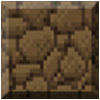
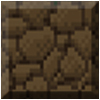
Make clickable tiles a lighter color

diff --git a/public/js/MainScene.js b/public/js/MainScene.js
@@ -136,28 +136,28 @@ export default class MainScene extends Phaser.Scene {
     let surroundingTileArray = [];
     const { xIndex, yIndex } = tileData;
     if (xIndex > 0) {
-      surroundingTileArray.push([[xIndex - 1], [yIndex]]);
+      surroundingTileArray.push([xIndex - 1, yIndex]);
     }
     if (xIndex < 11) {
-      surroundingTileArray.push([[xIndex + 1], [yIndex]]);
+      surroundingTileArray.push([xIndex + 1, yIndex]);
     }
     if (yIndex > 0) {
-      surroundingTileArray.push([[xIndex], [yIndex - 1]]);
+      surroundingTileArray.push([xIndex, yIndex - 1]);
     }
     if (yIndex < 7) {
-      surroundingTileArray.push([[xIndex], [yIndex + 1]]);
+      surroundingTileArray.push([xIndex, yIndex + 1]);
     }
     if (xIndex > 0 && yIndex > 0) {
-      surroundingTileArray.push([[xIndex - 1], [yIndex - 1]]);
+      surroundingTileArray.push([xIndex - 1, yIndex - 1]);
     }
     if (xIndex > 0 && yIndex < 7) {
-      surroundingTileArray.push([[xIndex - 1], [yIndex + 1]]);
+      surroundingTileArray.push([xIndex - 1, yIndex + 1]);
     }
     if (xIndex < 11 && yIndex > 0) {
-      surroundingTileArray.push([[xIndex + 1], [yIndex - 1]]);
+      surroundingTileArray.push([xIndex + 1, yIndex - 1]);
     }
     if (xIndex < 11 && yIndex < 7) {
-      surroundingTileArray.push([[xIndex + 1], [yIndex + 1]]);
+      surroundingTileArray.push([xIndex + 1, yIndex + 1]);
     }
     return surroundingTileArray;
   };
@@ -166,6 +166,10 @@ export default class MainScene extends Phaser.Scene {
     this.load.image('bomb', './assets/Puzzle_Bomb.jpg');
     this.load.image('emptyTile', './assets/Puzzle_Uncovered.jpg');
     this.load.image('hiddenTile', './assets/Puzzle_Hidden.jpg');
+    this.load.image(
+      'hiddenTileClickable',
+      './assets/Puzzle_Hidden_clickable.jpg',
+    );
     this.load.image('startTile', './assets/Puzzle_Start.jpg');
     this.load.image('endTile', './assets/Puzzle_End.jpg');
     this.load.image('fail', './assets/fail_game.jpg');
@@ -193,11 +197,11 @@ export default class MainScene extends Phaser.Scene {
     });
 
     //set heart image
-    let heartImage = this.add.sprite(45, 50, 'heart');
+    let heartImage = this.add.sprite(45, 60, 'heart');
     heartImage.displayWidth = 50;
     heartImage.displayHeight = 50;
 
-    let livesText = this.add.text(39, 40, this.lives, {
+    let livesText = this.add.text(39, 50, this.lives, {
       fontSize: '20px',
       fontStyle: 'bold',
     });
@@ -217,6 +221,7 @@ export default class MainScene extends Phaser.Scene {
         .on(Phaser.Input.Events.GAMEOBJECT_POINTER_DOWN, function (event) {
           console.log('bomb clicked');
           tiles.forEach((tile) => tile.destroy());
+          tiles = [];
           this.scene.lives = 3;
           this.scene.currentLevel = 1;
           startGame();
@@ -235,10 +240,31 @@ export default class MainScene extends Phaser.Scene {
           console.log('end clicked');
           this.scene.upCurrentLevelByOne();
           tiles.forEach((tile) => tile.destroy());
+          tiles = [];
           this.scene.lives += 1;
           startGame();
         });
       this.setIsGamePlaying(false);
+    };
+
+    //function to set surrounding tiles to clickable
+    const setSurroundingTilesToClickable = (tileData) => {
+      const surroundTileCoordinates = this.surroundingTilesCoordinatesArray(
+        tileData,
+      );
+      tiles.forEach((tile) => {
+        const xIndex = tile.getXIndex();
+        const yIndex = tile.getYIndex();
+        //tests if a tile x,y is in the surroungTileArrayCooirdinats
+        const isTileInCoordinatesArray = surroundTileCoordinates.some(
+          (coodinates) => {
+            return coodinates[0] === xIndex && coodinates[1] === yIndex;
+          },
+        );
+        if (isTileInCoordinatesArray) {
+          tile.setTileClickable();
+        }
+      });
     };
 
     let tileObjectData = {
@@ -250,20 +276,26 @@ export default class MainScene extends Phaser.Scene {
       setTileClickable: this.setTileClickable,
       getLives: this.getLives,
       setLives,
+      setSurroundingTilesToClickable,
     };
 
     // initialize the gameData and populate the gameboard with tiles
     const startGame = () => {
       console.log(`Current Level: ${this.currentLevel}`);
       this.initilizeGameData();
-      //set current level text
 
-      level.setText(`The Path Finder      Level: ${this.currentLevel}`);
+      //set current level text
+      level.setText(
+        `The Path Finder               Level: ${this.currentLevel}`,
+      );
       level.displayOriginX = level.displayWidth;
 
       //set current lives text
       livesText.setText(this.lives);
+
       this.setIsGamePlaying(true);
+
+      // add Tiles based on gameData
       for (let Xindex = 0; Xindex < 12; Xindex++) {
         const x = startingX + tileSize * Xindex;
         for (let Yindex = 0; Yindex < 8; Yindex++) {
@@ -279,6 +311,9 @@ export default class MainScene extends Phaser.Scene {
           );
         }
       }
+
+      //set tiles surrounding start tile to clickable
+      setSurroundingTilesToClickable(this.gameData[0][0]);
     };
 
     startGame();

diff --git a/public/js/Tile.js b/public/js/Tile.js
@@ -12,6 +12,7 @@ export default class Tile extends Phaser.GameObjects.Container {
       setTileClickable,
       getLives,
       setLives,
+      setSurroundingTilesToClickable,
     } = data;
     let image = new Phaser.GameObjects.Sprite(scene, 0, 0, baseImage);
     let number = new Phaser.GameObjects.Text(
@@ -31,6 +32,9 @@ export default class Tile extends Phaser.GameObjects.Container {
     );
 
     super(scene, x, y, [image, number, topImage]);
+    this.baseImage = baseImage;
+    this.xIndex = xIndex;
+    this.yIndex = yIndex;
     this.image = image;
     this.number = number;
     this.number.style.color = '#000';
@@ -46,6 +50,7 @@ export default class Tile extends Phaser.GameObjects.Container {
       .on(Phaser.Input.Events.GAMEOBJECT_POINTER_DOWN, function (event) {
         let currentTile = gameData[xIndex][yIndex];
         if (currentTile.isTileClickable) {
+          setSurroundingTilesToClickable(currentTile);
           if (getIsGamePlaying()) {
             setTileClickable(currentTile);
             topImage.setVisible(false);
@@ -63,4 +68,17 @@ export default class Tile extends Phaser.GameObjects.Container {
       });
     scene.add.existing(this);
   }
+
+  setTileClickable = () => {
+    if (this.baseImage !== 'startTile' && this.baseImage !== 'endTile') {
+      this.topImage.setTexture('hiddenTileClickable');
+    }
+  };
+
+  getXIndex = () => {
+    return this.xIndex;
+  };
+  getYIndex = () => {
+    return this.yIndex;
+  };
 }
